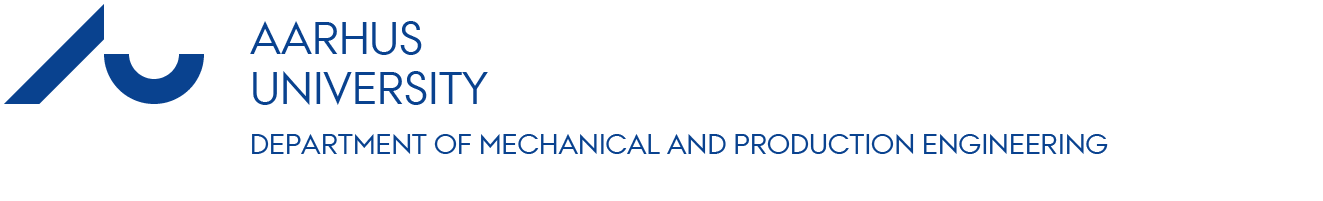
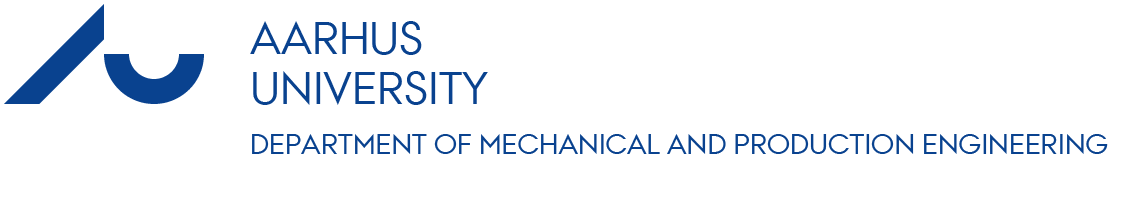
MPE 2

Changed region(s): [[0.1868, 0.6567, 0.9964, 0.7761], [0.0, 0.0299, 0.4359, 0.5373], [0.1868, 0.0896, 0.3737, 0.2687]]

diff --git a/content/home/experience.md b/content/home/experience.md
@@ -31,7 +31,7 @@ experience:
     location: Aarhus, Denmark
     date_start: '2019-08-01'
     date_end: ''
-    description: <a href="https://mpe.au.dk/en/"><img src="/media/MPE-AU.png"></a>
+    description: <a href="https://mpe.au.dk/en/"><img src="/media/MPE-AU.png" style="max-height:200px;"></a>
         
   - title: Dresden Junior Fellow
     company: Institute of Scientific Computing, Faculty of Mathematics, TU Dresden
